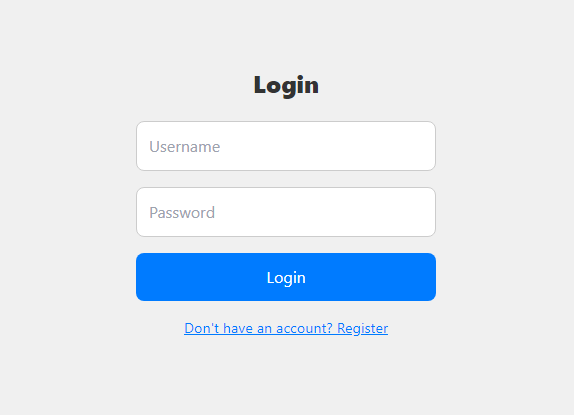
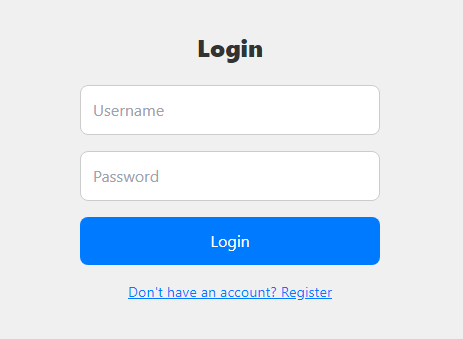
demo

diff --git a/README.md b/README.md
@@ -8,7 +8,7 @@ This is a simple chat application built using the MERN stack (MongoDB, Express.j
 ![Demo Image](./Demo/chatlist.png)
 ![Demo Image](./Demo/register.png)
 ![Demo Image](./Demo/login.png)
-![Demo Image](./Demo/mobile_screen.png){width=50%}
+![Demo Image](./Demo/mobile_screen.png){width=50%,height=50%}
 
 ## Technologies Used
 
